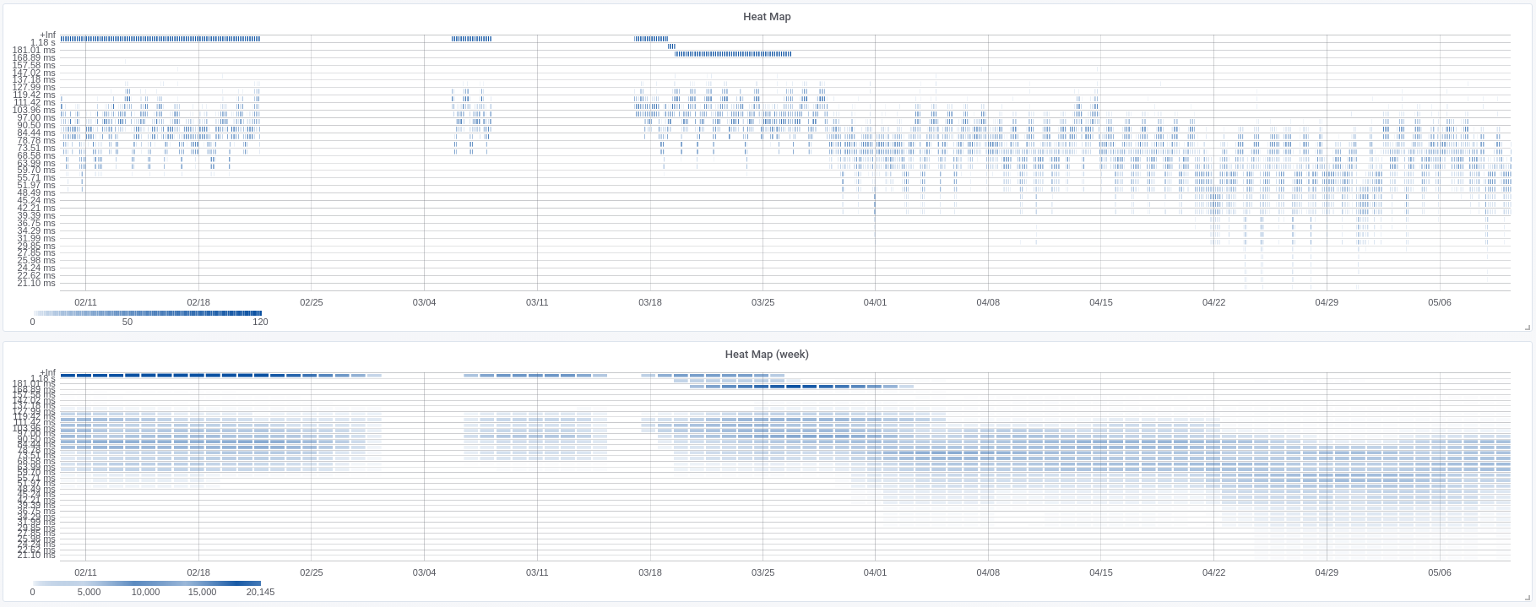
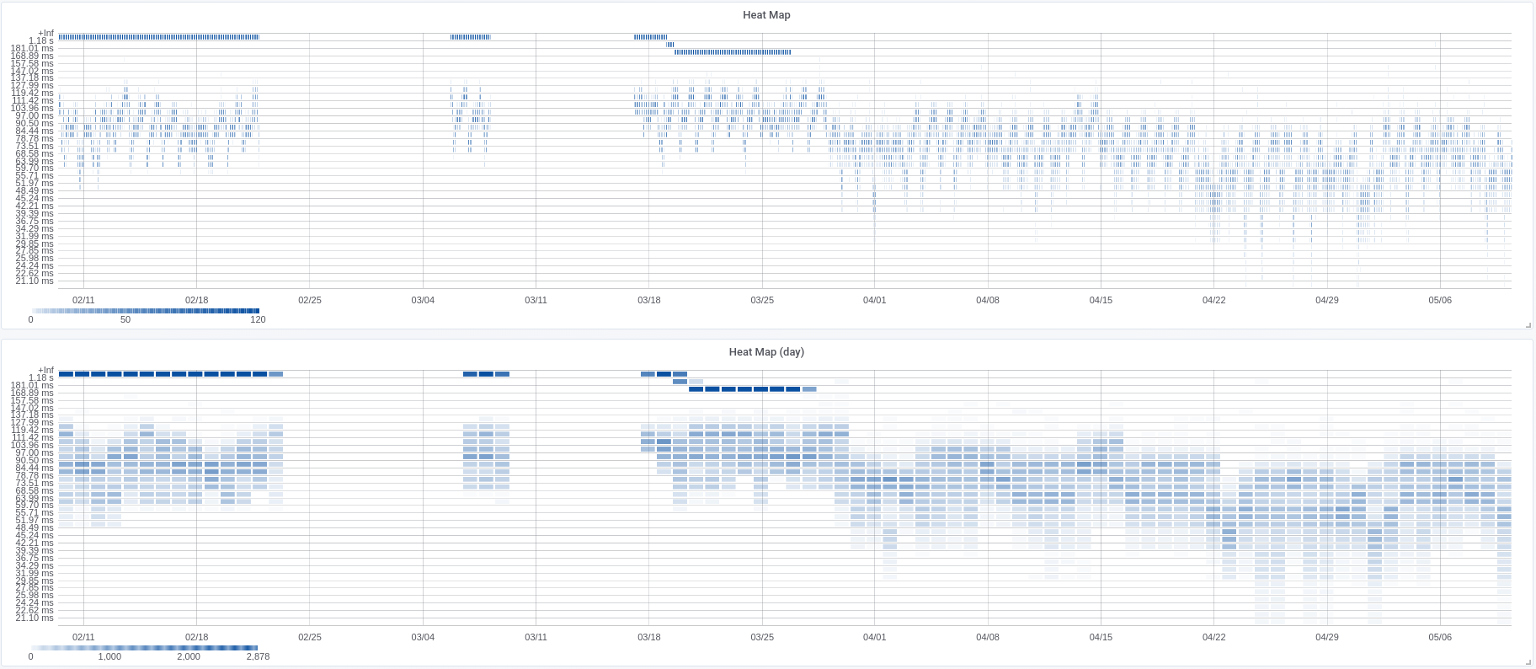
set aggregate = min step

diff --git a/README.md b/README.md
@@ -29,7 +29,7 @@ ninety days, and compare it to one that aggregates one day's worth of data per h
 
 ![flaky hardware, weekly histogram](examples/heatmap3.png)
 
-This is a lot more consistent.
+This is a lot less noisy.
 
 ### Summary
 
@@ -108,11 +108,11 @@ To do that, add a Heatmap panel to Grafana, and configure it with:
 * Query: `delta(meshping_pings_bucket{target=\"$target\"}[1h])`
 * Legend format: `{{ le }}`
 * Unit: `ms`
-* Min step: `15m`
+* Min step: `1h`
 
 For a one-histogram-per-day panel, use these settings:
 
-* Query: `delta(meshping_pings_bucket{target=\"$target\"}[1w])`
+* Query: `delta(meshping_pings_bucket{target=\"$target\"}[1d])`
 * Min step: `1d`
 
 
